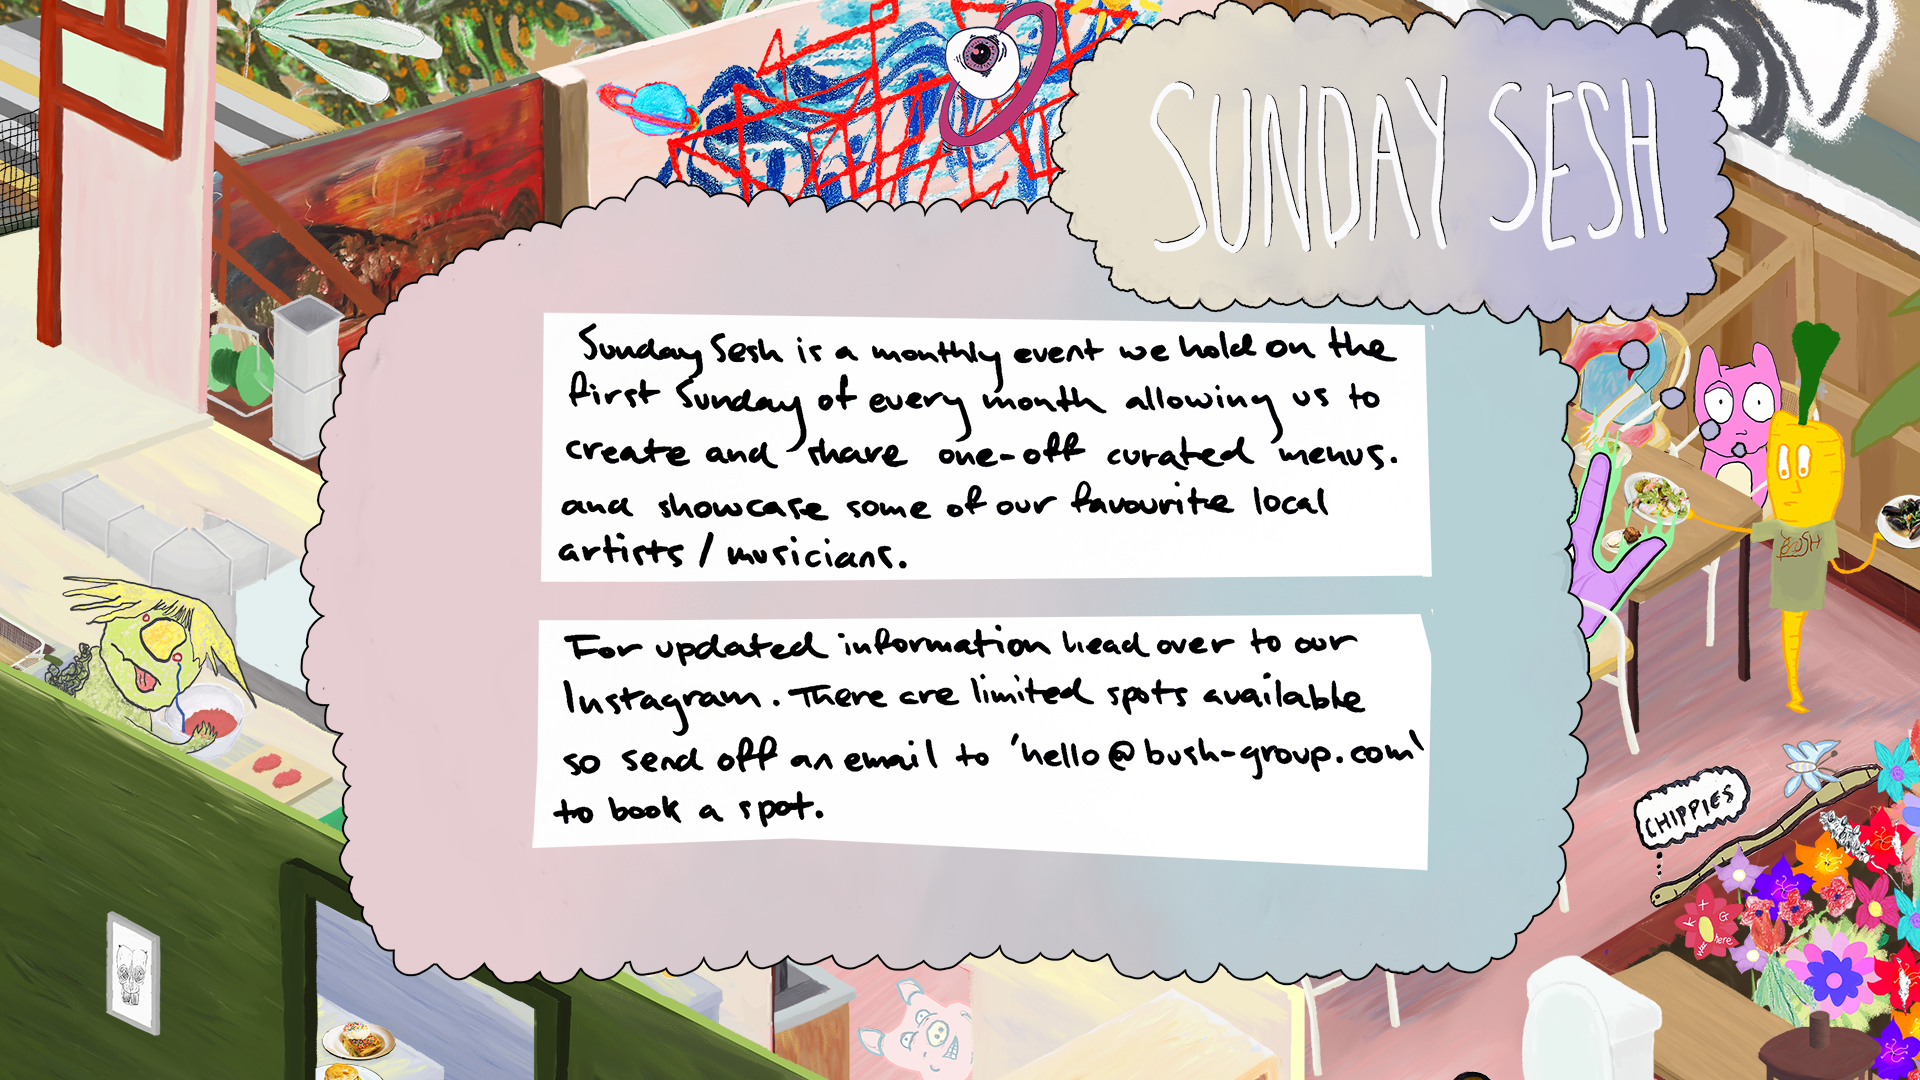
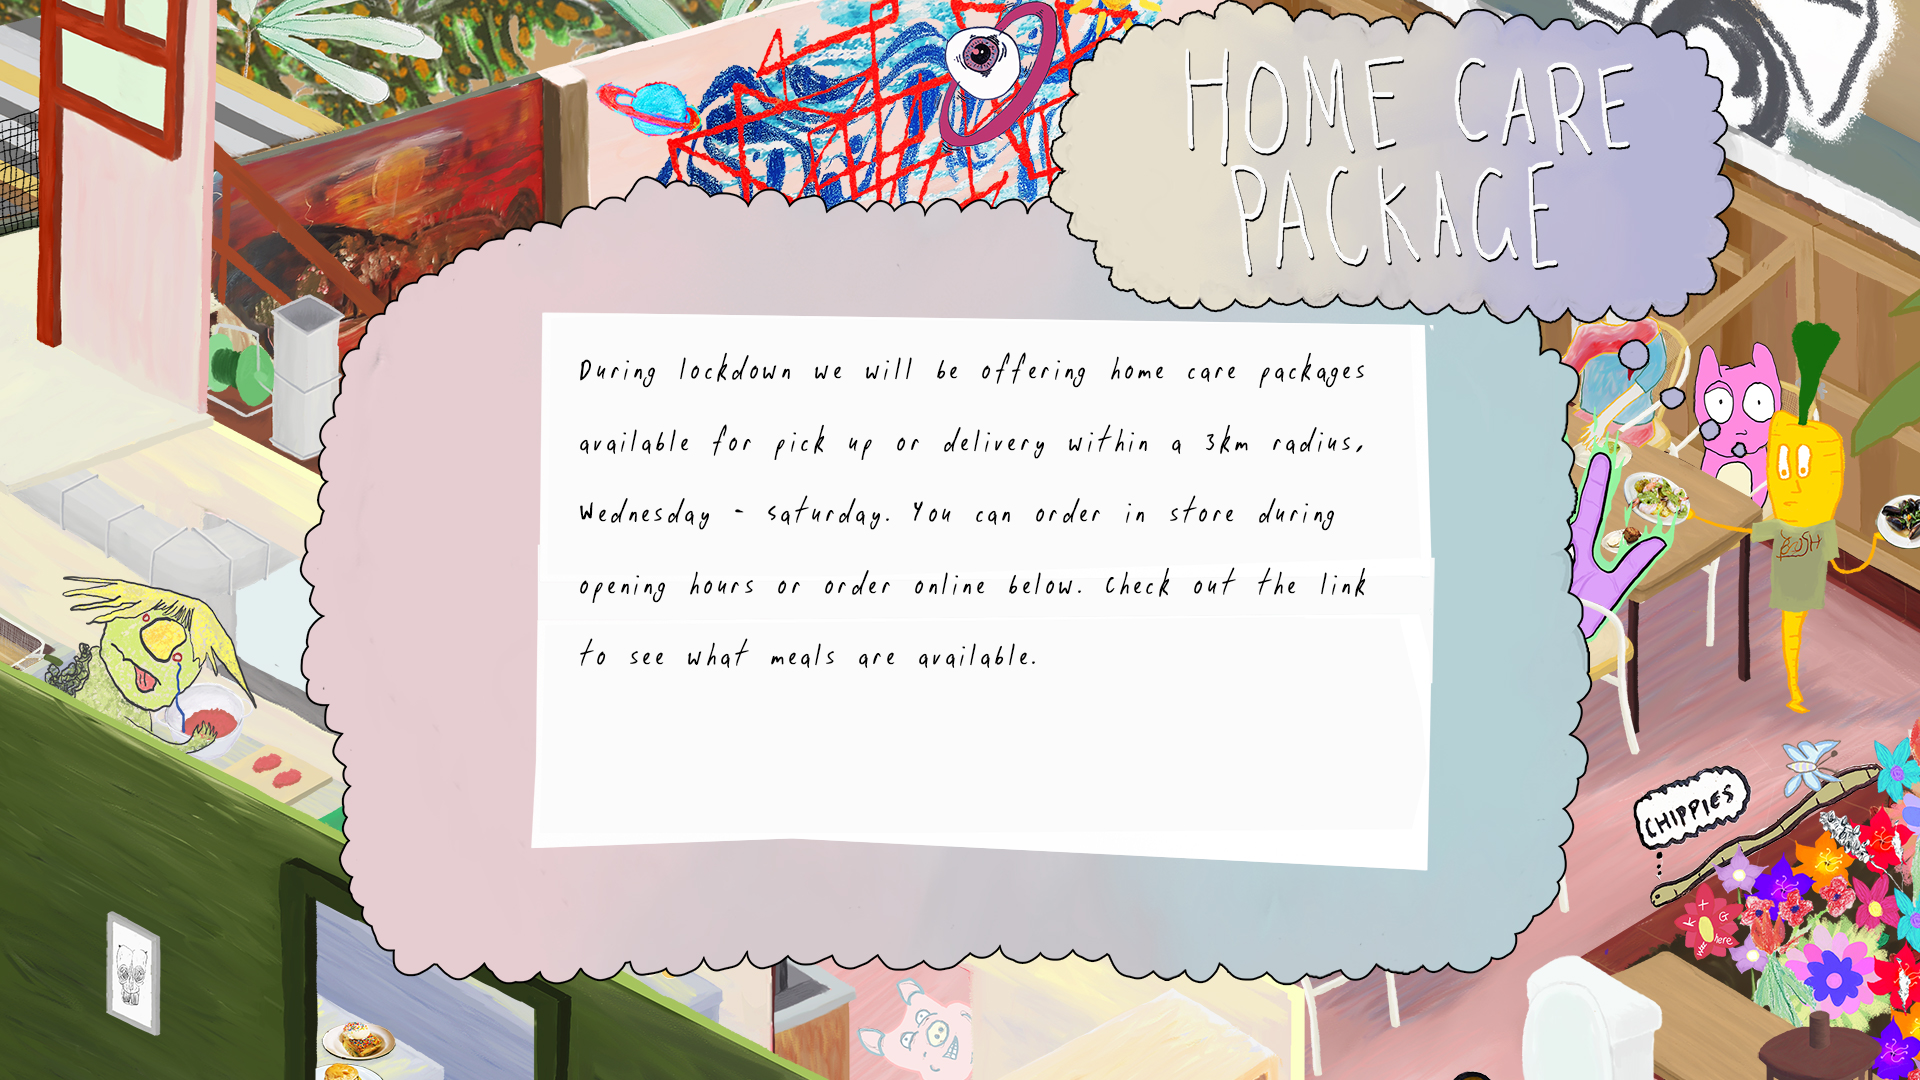
updates with home care package

Changed region(s): [[0.2812, 0.3056, 0.75, 0.7639], [0.5938, 0.0611, 0.875, 0.2444]]

diff --git a/index.html b/index.html
@@ -175,6 +175,12 @@
             link: '#/home'
           },
           {
+            name: 'book with bopple.jpg',
+            location: '50,70',
+            size: 20,
+            link: 'https://bopple.app/menu/7823'
+          },
+          {
             name: '../instagram logo.png',
             location: '95.5,92',
             size: 4.5,
